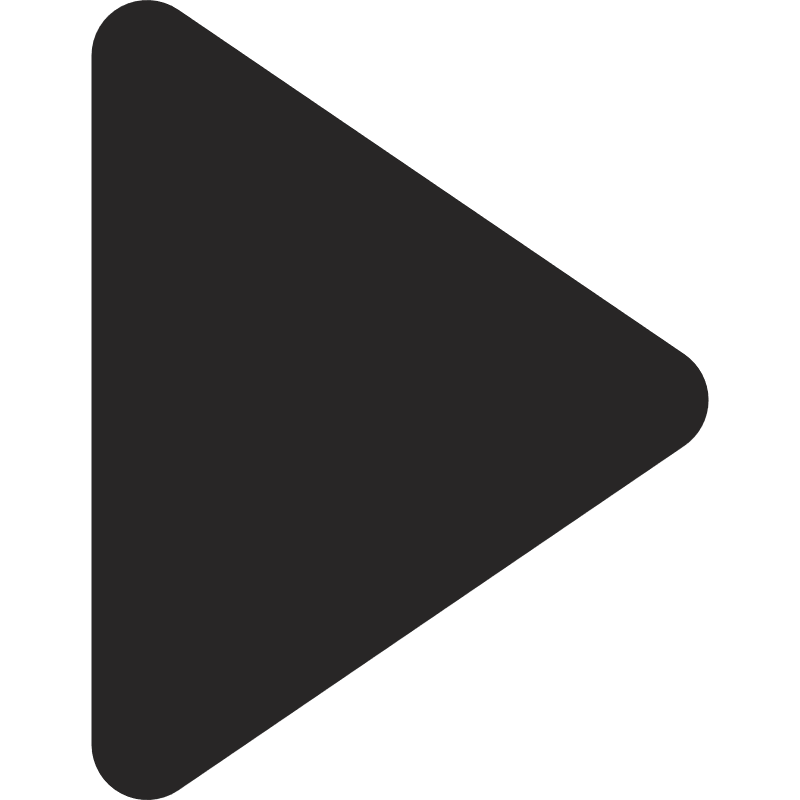
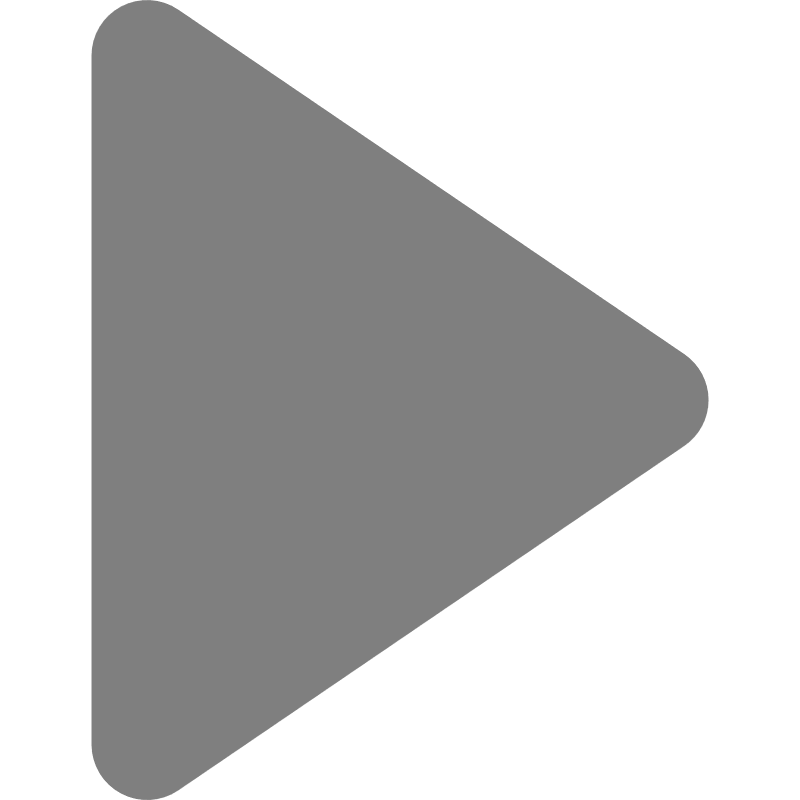
something

diff --git a/pages/videos/index.html b/pages/videos/index.html
@@ -24,7 +24,7 @@
 
             <a href="How-to-IMPROVE-Your-Relationship-With-God-In-4-Steps/">
                 <div class="video-chooser">
-                    <img src="../../images/buttons/play.png" class="video-img-ply" draggable="false">
+                    <img src="../../images/buttons/video-play.png" class="video-img-ply" draggable="false">
                     <img src="../../images/thumbnails/how-to-get-closer-to-god-4-stepsjpg.jpg" class="video-img" draggable="false">
                     <h4 class="video-title"> How to IMPROVE Your Relationship With God In 4 Steps <a href="https://www.youtube.com/@ImpactVideoMinistries" target="_blank" class="author-container"><img class="author-img" src="../../images/buttons/play.png">Author</a></h4>
                 </div>
@@ -60,8 +60,8 @@
 
             <a href="../videos/" class="videos-linker">
                 <div class="button">
-                    <img src="../../images/buttons/play.png" class="button-img">
-                    <h5 class="button-text">Videos</h5>
+                    <img src="../../images/buttons/play.png" class="button-img selected-img">
+                    <h5 class="button-text selected-text">Videos</h5>
                 </div>
             </a>
 
@@ -74,8 +74,8 @@
 
             <a href="../menu/" class="menu-linker">
                 <div class="button">
-                    <img src="../../images/buttons/menu.png" class="button-img selected-img">
-                    <h5 class="button-text selected-text">Menu</h5>
+                    <img src="../../images/buttons/menu.png" class="button-img">
+                    <h5 class="button-text">Menu</h5>
                 </div>
             </a>
 

diff --git a/pages/home/index.html b/pages/home/index.html
@@ -180,8 +180,8 @@
         <div class="bottombar">
             <a href="../home/" class="home-linker">
                 <div class="button">
-                    <img src="../../images/buttons/home.png" class="button-img selected-img">
-                    <h5 class="button-text selected-text">Home</h5>
+                    <img src="../../images/buttons/home.png" class="button-img">
+                    <h5 class="button-text">Home</h5>
                 </div>
             </a>
 
@@ -199,6 +199,13 @@
                 </div>
             </a>
 
+            <a href="../videos/" class="videos-linker">
+                <div class="button">
+                    <img src="../../images/buttons/play.png" class="button-img">
+                    <h5 class="button-text">Videos</h5>
+                </div>
+            </a>
+
             <a href="../translations/" class="translations-linker">
                 <div class="button">
                     <img src="../../images/buttons/translations.png" class="button-img">
@@ -208,8 +215,8 @@
 
             <a href="../menu/" class="menu-linker">
                 <div class="button">
-                    <img src="../../images/buttons/menu.png" class="button-img">
-                    <h5 class="button-text">Menu</h5>
+                    <img src="../../images/buttons/menu.png" class="button-img selected-img">
+                    <h5 class="button-text selected-text">Menu</h5>
                 </div>
             </a>
 

diff --git a/pages/bible/index.html b/pages/bible/index.html
@@ -1400,8 +1400,8 @@
 
         <a href="../bible/" class="bible-linker">
             <div class="button">
-                <img src="../../images/buttons/bible.png" class="button-img selected-img">
-                <h5 class="button-text selected-text">Bible</h5>
+                <img src="../../images/buttons/bible.png" class="button-img">
+                <h5 class="button-text">Bible</h5>
             </div>
         </a>
 
@@ -1409,6 +1409,13 @@
             <div class="button">
                 <img src="../../images/buttons/notes.png" class="button-img">
                 <h5 class="button-text">Notes</h5>
+            </div>
+        </a>
+
+        <a href="../videos/" class="videos-linker">
+            <div class="button">
+                <img src="../../images/buttons/play.png" class="button-img">
+                <h5 class="button-text">Videos</h5>
             </div>
         </a>
 
@@ -1421,8 +1428,8 @@
 
         <a href="../menu/" class="menu-linker">
             <div class="button">
-                <img src="../../images/buttons/menu.png" class="button-img">
-                <h5 class="button-text">Menu</h5>
+                <img src="../../images/buttons/menu.png" class="button-img selected-img">
+                <h5 class="button-text selected-text">Menu</h5>
             </div>
         </a>
 

diff --git a/pages/translations/index.html b/pages/translations/index.html
@@ -47,17 +47,24 @@
             </div>
         </a>
 
+        <a href="../videos/" class="videos-linker">
+            <div class="button">
+                <img src="../../images/buttons/play.png" class="button-img">
+                <h5 class="button-text">Videos</h5>
+            </div>
+        </a>
+
         <a href="../translations/" class="translations-linker">
             <div class="button">
-                <img src="../../images/buttons/translations.png" class="button-img selected-img">
-                <h5 class="button-text selected-text">Translations</h5>
+                <img src="../../images/buttons/translations.png" class="button-img">
+                <h5 class="button-text">Translations</h5>
             </div>
         </a>
 
         <a href="../menu/" class="menu-linker">
             <div class="button">
-                <img src="../../images/buttons/menu.png" class="button-img">
-                <h5 class="button-text">Menu</h5>
+                <img src="../../images/buttons/menu.png" class="button-img selected-img">
+                <h5 class="button-text selected-text">Menu</h5>
             </div>
         </a>
 

diff --git a/pages/notes/index.html b/pages/notes/index.html
@@ -49,8 +49,15 @@
 
         <a href="../notes/" class="notes-linker">
             <div class="button">
-                <img src="../../images/buttons/notes.png" class="button-img selected-img">
-                <h5 class="button-text selected-text">Notes</h5>
+                <img src="../../images/buttons/notes.png" class="button-img">
+                <h5 class="button-text">Notes</h5>
+            </div>
+        </a>
+
+        <a href="../videos/" class="videos-linker">
+            <div class="button">
+                <img src="../../images/buttons/play.png" class="button-img">
+                <h5 class="button-text">Videos</h5>
             </div>
         </a>
 
@@ -63,8 +70,8 @@
 
         <a href="../menu/" class="menu-linker">
             <div class="button">
-                <img src="../../images/buttons/menu.png" class="button-img">
-                <h5 class="button-text">Menu</h5>
+                <img src="../../images/buttons/menu.png" class="button-img selected-img">
+                <h5 class="button-text selected-text">Menu</h5>
             </div>
         </a>
 

diff --git a/scripts/bottombar-videos.js b/scripts/bottombar-videos.js
@@ -3,8 +3,8 @@ window.onload = function() {
         <div class="bottombar">
             <a href="../../videos/" class="home-linker">
                 <div class="button">
-                    <img src="../../../images/buttons/home.png" class="button-img selected-img">
-                    <h5 class="button-text selected-text">Home</h5>
+                    <img src="../../../images/buttons/home.png" class="button-img">
+                    <h5 class="button-text">Home</h5>
                 </div>
             </a>
             <a href="../../bible/" class="bible-linker">
@@ -22,8 +22,8 @@ window.onload = function() {
 
             <a href="../../videos/" class="videos-linker">
                 <div class="button">
-                    <img src="../../../images/buttons/play.png" class="button-img">
-                    <h5 class="button-text">Videos</h5>
+                    <img src="../../../images/buttons/play.png" class="button-img selected-img">
+                    <h5 class="button-text selected-text">Videos</h5>
                 </div>
             </a>
 

diff --git a/pages/menu/index.html b/pages/menu/index.html
@@ -81,6 +81,13 @@
                 </div>
             </a>
 
+            <a href="../videos/" class="videos-linker">
+                <div class="button">
+                    <img src="../../images/buttons/play.png" class="button-img">
+                    <h5 class="button-text">Videos</h5>
+                </div>
+            </a>
+
             <a href="../translations/" class="translations-linker">
                 <div class="button">
                     <img src="../../images/buttons/translations.png" class="button-img">

diff --git a/styles/style.css b/styles/style.css
@@ -496,6 +496,12 @@ textarea, input {
 
 /* Responsive adjustments */
 @media screen and (max-width: 864px) {
+
+
+    .videos-linker {
+        display: none;
+    }
+
     .verse {
         width: 95%;
     }
